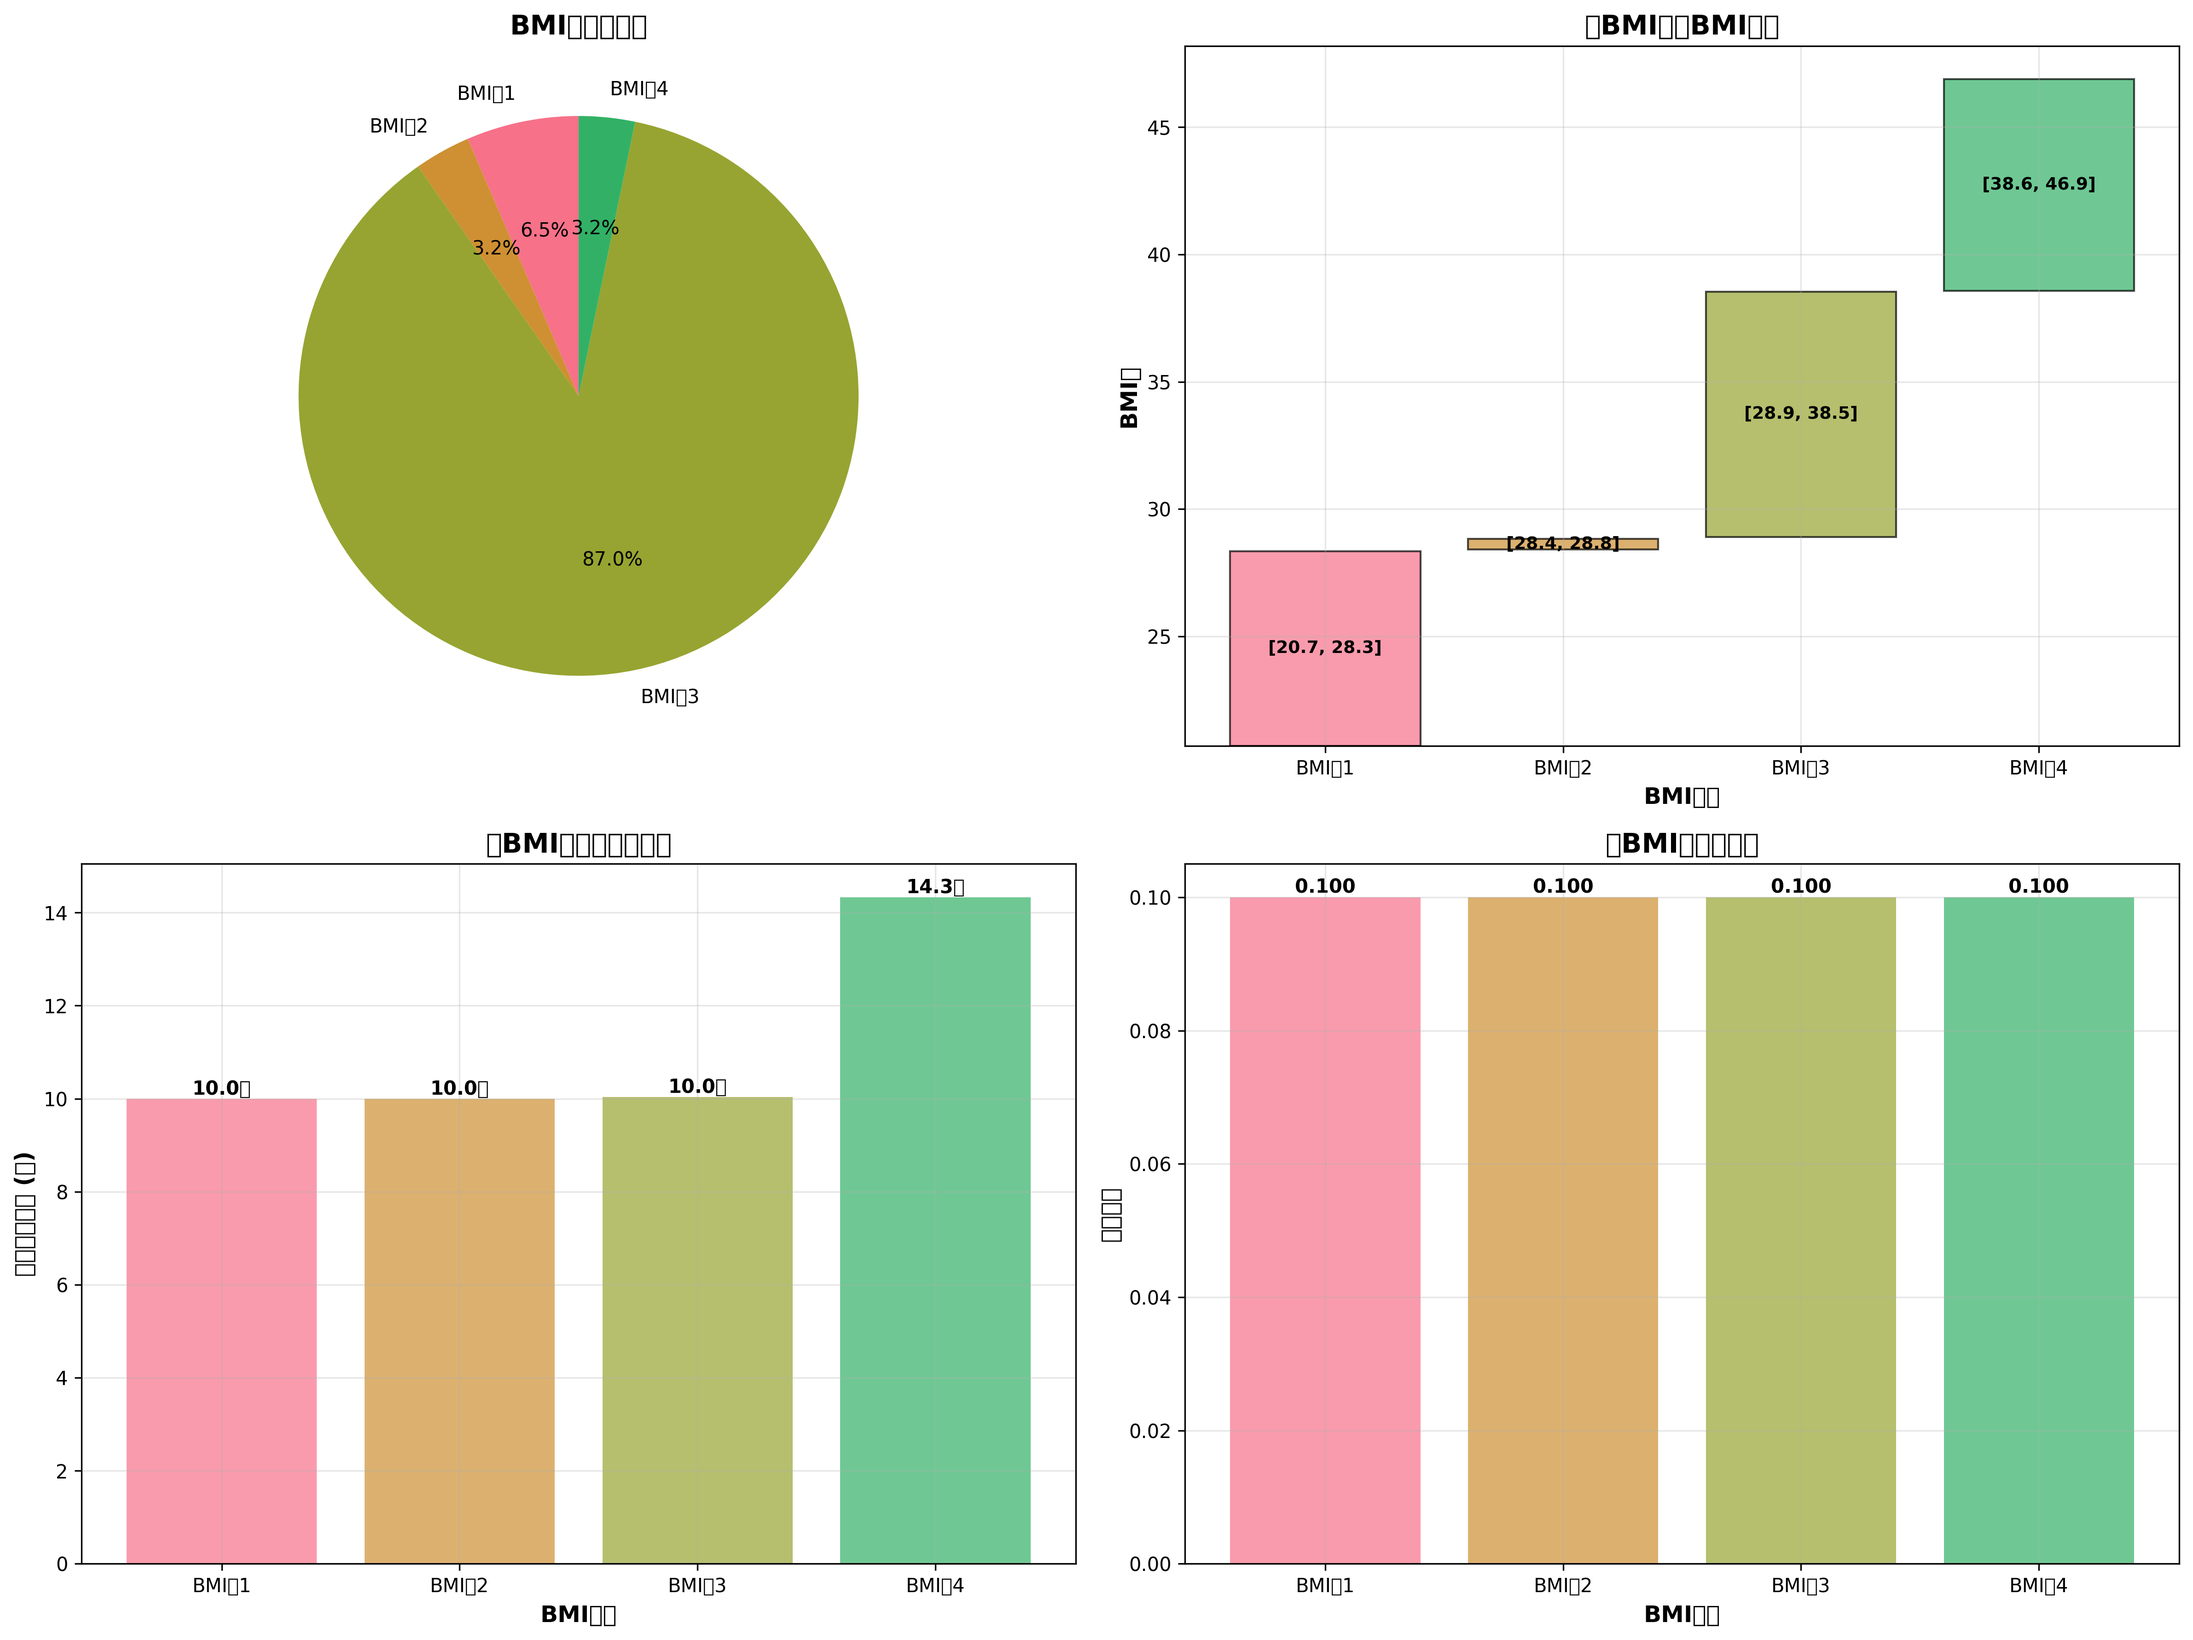
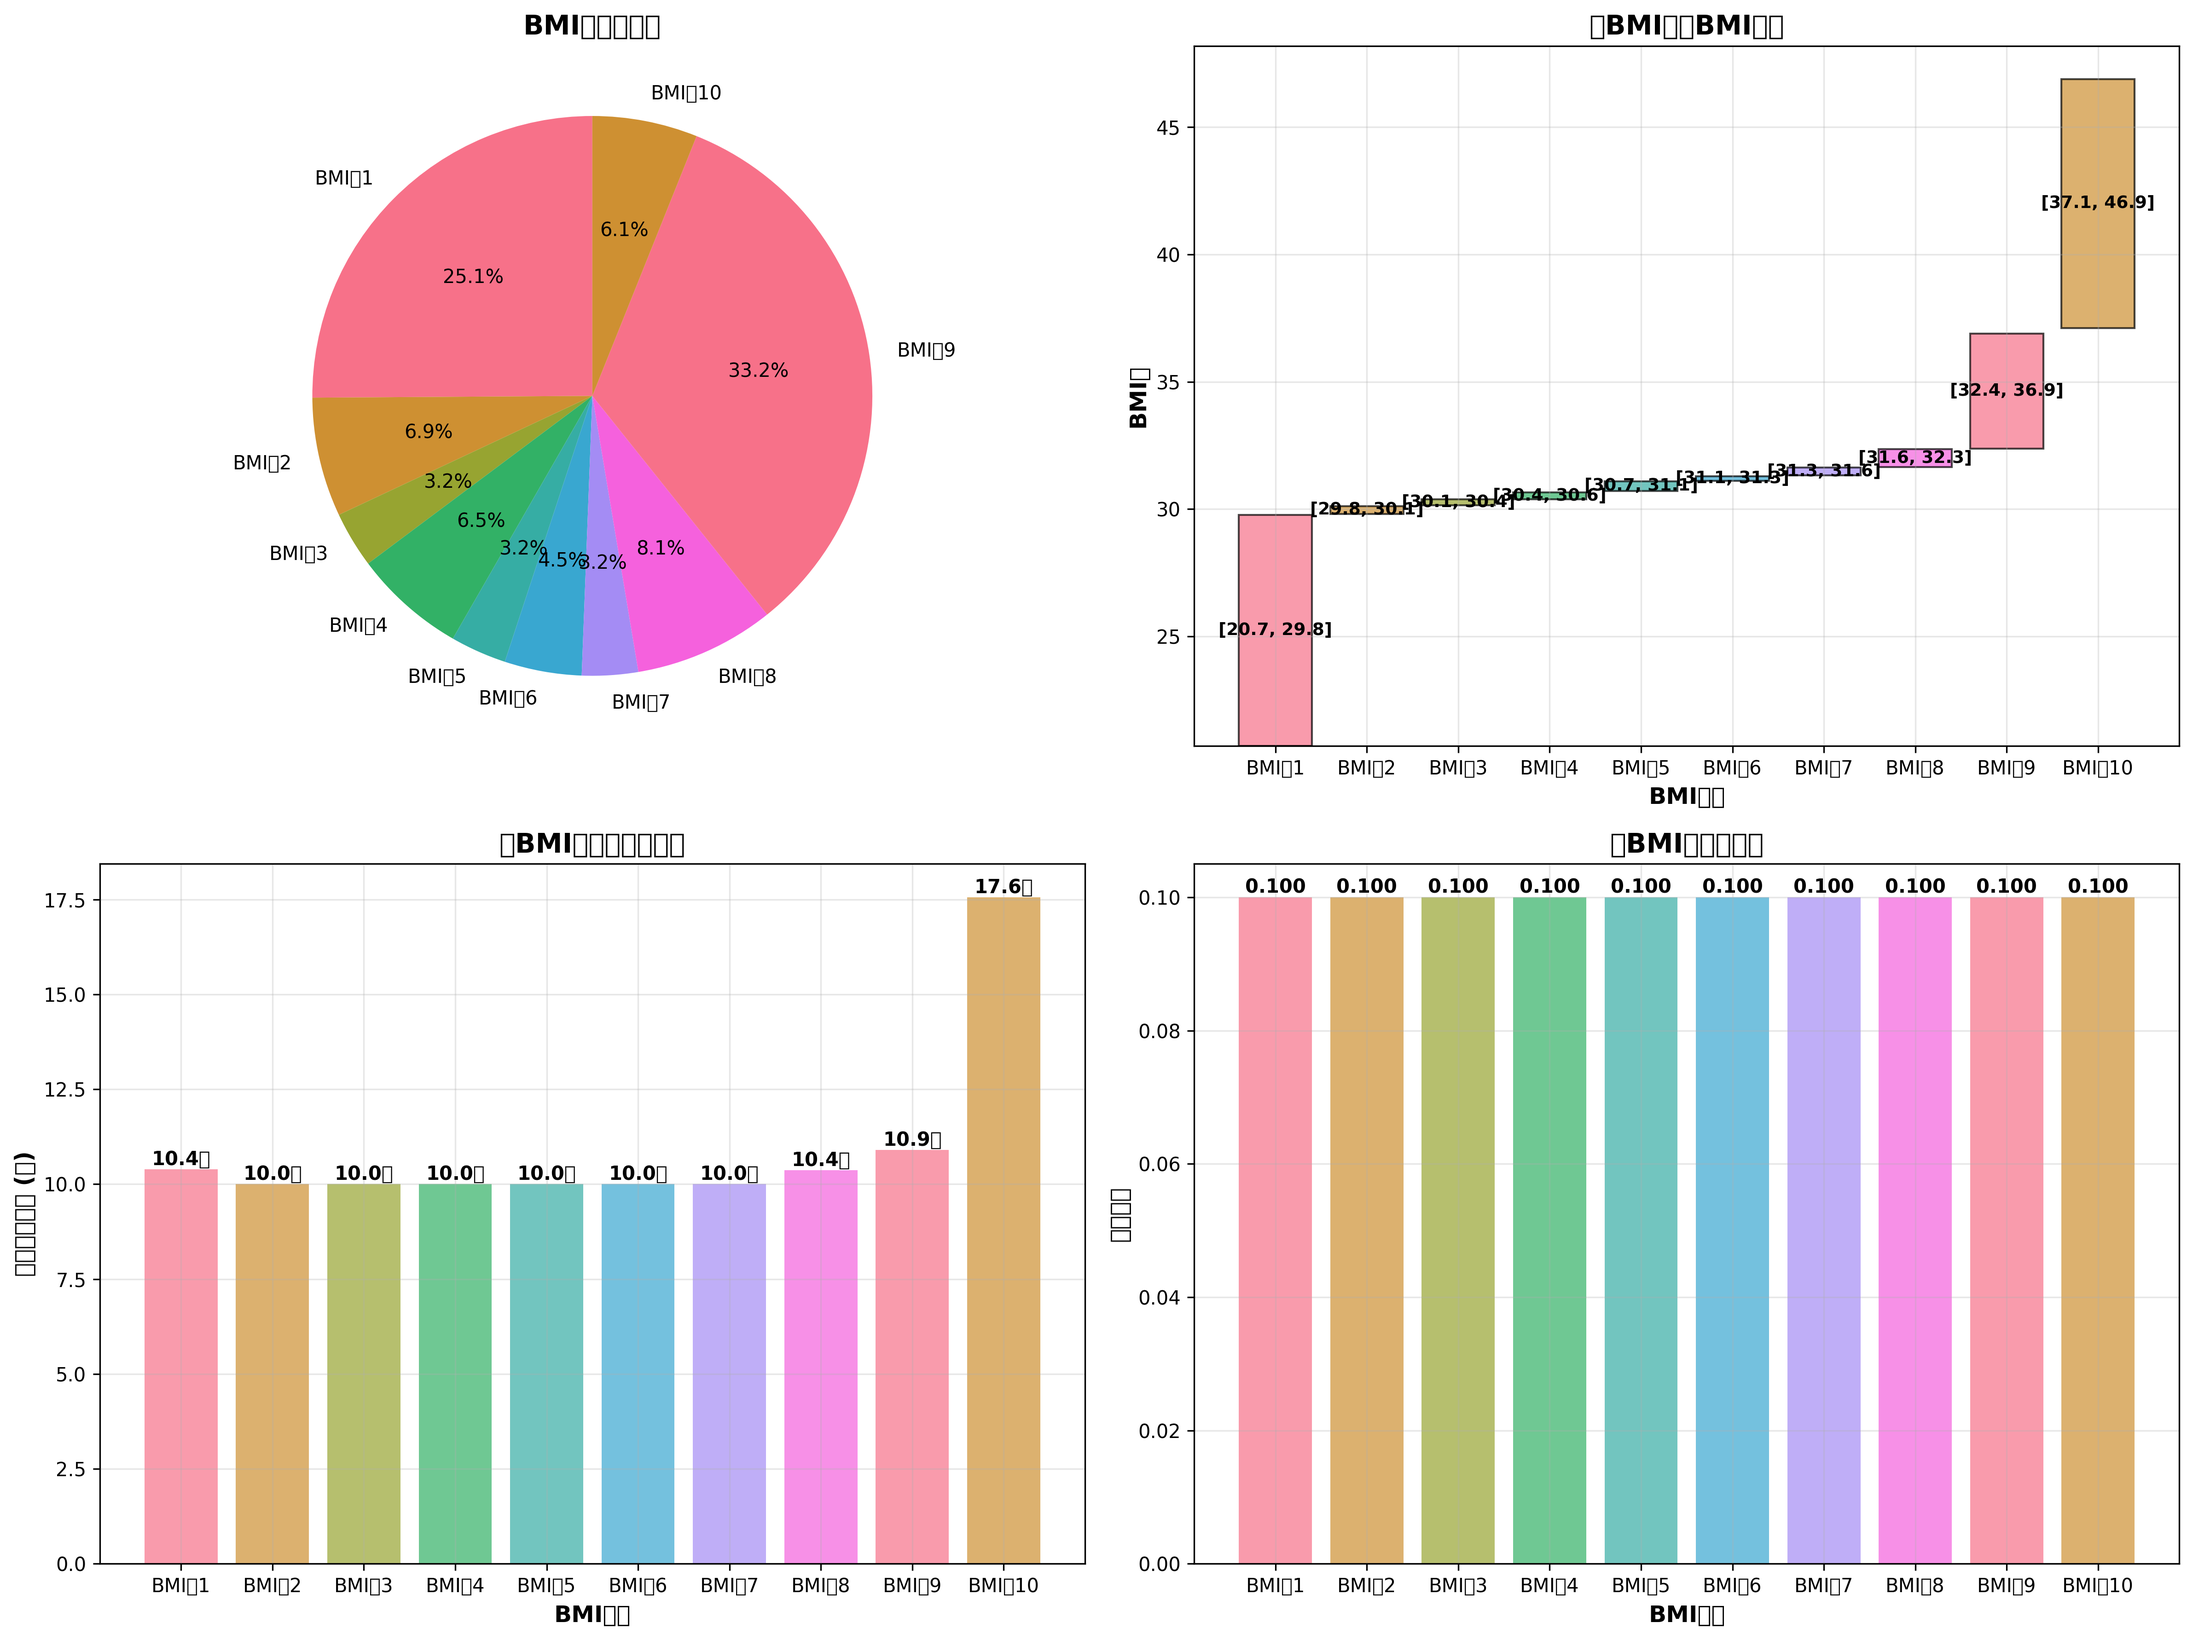
refactor(更改为随机森林时间预测模型): 更新时间预测模块，采用随机森林模型替代线性回归，增强模型性能，保存模型参数和特征重要性，新增模型文件，更新分析报告。

diff --git a/problem2_analysis/time_prediction.py b/problem2_analysis/time_prediction.py
@@ -8,7 +8,9 @@ import numpy as np
 import pandas as pd
 from scipy.optimize import fsolve, minimize_scalar
 from scipy import stats
-from sklearn.linear_model import LinearRegression
+from sklearn.ensemble import RandomForestRegressor
+from sklearn.model_selection import train_test_split
+from sklearn.metrics import mean_squared_error, r2_score
 from typing import Dict, Tuple, Optional
 import warnings
 warnings.filterwarnings('ignore')
@@ -53,61 +55,79 @@ class TimePredictionModel:
         print(f"相关性显著性检验: t={t_stat:.4f}, p={p_value:.6f}")
         print(f"样本数量: {n}")
         
-        # 2. 拟合简化线性模型：Y浓度 = a + b*孕周 + c*BMI + d*孕周*BMI
-        X = data[['gestational_days', '孕妇BMI']].copy()
-        X['gestational_days_bmi'] = X['gestational_days'] * X['孕妇BMI']  # 交互项
-        X = X.dropna()
-        
+        # 2. 拟合简化随机森林模型：Y浓度 = f(孕周, BMI) [无交互项]
+        # 保留主要特征但去掉交互项，使用保守参数避免过拟合
+        X = data[['gestational_days', '孕妇BMI']].copy().dropna()
         y = data.loc[X.index, 'Y染色体浓度']
         
-        # 使用线性回归拟合
-        model = LinearRegression()
-        model.fit(X, y)
+        # 数据划分（用于更准确的性能评估）
+        X_train, X_test, y_train, y_test = train_test_split(X, y, test_size=0.2, random_state=42)
+        
+        # 使用保守的随机森林参数避免过拟合
+        model = RandomForestRegressor(
+            n_estimators=30,       # 进一步减少树的数量
+            max_depth=4,           # 限制更小的树深度
+            min_samples_split=20,  # 增加分割所需的最小样本数
+            min_samples_leaf=10,   # 增加叶子节点最小样本数
+            max_features='sqrt',   # 使用sqrt特征数
+            random_state=42,
+            n_jobs=-1
+        )
+        model.fit(X_train, y_train)
         
         self.fitted_model = model
+        self.feature_names = X.columns.tolist()
         
-        # 保存模型参数
+        # 保存模型参数（随机森林的特征重要性）
         self.model_params = {
-            'intercept': model.intercept_,
-            'gestational_days': model.coef_[0],
-            'bmi': model.coef_[1], 
-            'gestational_days_bmi': model.coef_[2]
+            'feature_importance': dict(zip(self.feature_names, model.feature_importances_)),
+            'n_estimators': model.n_estimators,
+            'max_depth': model.max_depth,
+            'min_samples_split': model.min_samples_split,
+            'min_samples_leaf': model.min_samples_leaf
         }
         
         # 模型性能评估
-        r2 = model.score(X, y)
-        y_pred = model.predict(X)
-        rmse = np.sqrt(np.mean((y - y_pred)**2))
+        y_train_pred = model.predict(X_train)
+        y_test_pred = model.predict(X_test)
         
-        print(f"\n=== 简化模型拟合结果 ===")
-        print(f"模型公式: Y = {self.model_params['intercept']:.6f}")
-        print(f"       + {self.model_params['gestational_days']:.6f} * 孕周天数") 
-        print(f"       + {self.model_params['bmi']:.6f} * BMI")
-        print(f"       + {self.model_params['gestational_days_bmi']:.8f} * 孕周天数*BMI")
-        print(f"R² = {r2:.4f}")
-        print(f"RMSE = {rmse:.6f}")
+        r2_train = r2_score(y_train, y_train_pred)
+        r2_test = r2_score(y_test, y_test_pred)
+        rmse_train = np.sqrt(mean_squared_error(y_train, y_train_pred))
+        rmse_test = np.sqrt(mean_squared_error(y_test, y_test_pred))
+        
+        print(f"\n=== 随机森林模型拟合结果 ===")
+        print(f"模型类型: RandomForest (n_estimators={model.n_estimators}, max_depth={model.max_depth})")
+        print("特征重要性:")
+        for feature, importance in self.model_params['feature_importance'].items():
+            print(f"  - {feature}: {importance:.4f}")
+        print(f"训练集 R² = {r2_train:.4f}")
+        print(f"测试集 R² = {r2_test:.4f}")
+        print(f"训练集 RMSE = {rmse_train:.6f}")
+        print(f"测试集 RMSE = {rmse_test:.6f}")
         
         return self.model_params
     def predict_concentration(self, gestational_days: float, bmi: float, 
                             **kwargs) -> float:
         """
-        使用简化模型预测Y染色体浓度
-        新模型只需要gestational_days和bmi两个关键参数
+        使用简化随机森林模型预测Y染色体浓度
+        简化后的模型使用孕周和BMI两个主要特征（无交互项）
         
         Parameters:
         - gestational_days: 孕周天数
         - bmi: BMI值
         """
-        if not self.model_params:
+        if self.fitted_model is None:
             raise ValueError("模型未拟合！请先调用fit_model_from_data()或提供数据路径")
         
-        # 使用简化的线性模型计算浓度
-        concentration = (
-            self.model_params['intercept'] +
-            self.model_params['gestational_days'] * gestational_days +
-            self.model_params['bmi'] * bmi +
-            self.model_params['gestational_days_bmi'] * gestational_days * bmi
-        )
+        # 使用孕周和BMI两个特征（无交互项）
+        features = pd.DataFrame({
+            'gestational_days': [gestational_days],
+            '孕妇BMI': [bmi]
+        })
+        
+        # 使用随机森林模型预测浓度
+        concentration = self.fitted_model.predict(features)[0]
         
         return max(0, concentration)  # 浓度不能为负
     
@@ -116,7 +136,7 @@ class TimePredictionModel:
         求解Y染色体浓度达到4%的最早时间
         简化版本只需要BMI参数
         """
-        if not self.model_params:
+        if self.fitted_model is None:
             raise ValueError("模型未拟合！请先调用fit_model_from_data()或提供数据路径")
         
         def concentration_equation(t):

diff --git a/problem2_analysis/main_problem2.py b/problem2_analysis/main_problem2.py
@@ -539,11 +539,17 @@ class Problem2CompleteAnalysis:
         
         print("  ✓ 保存时间预测模型参数...")
         
-        # 保存时间预测模型参数
+        # 保存随机森林模型文件
+        if hasattr(self.time_predictor, 'fitted_model') and self.time_predictor.fitted_model is not None:
+            joblib.dump(self.time_predictor.fitted_model, 'problem2_results/models/time_prediction_rf_model.pkl')
+        
+        # 保存随机森林时间预测模型参数
         time_predictor_params = {
+            'model_type': 'RandomForest',
             'model_params': self.time_predictor.model_params,
             'threshold': self.time_predictor.threshold,
-            'bmi_correlation': getattr(self.time_predictor, 'bmi_correlation', None)
+            'bmi_correlation': getattr(self.time_predictor, 'bmi_correlation', None),
+            'feature_names': getattr(self.time_predictor, 'feature_names', None)
         }
         with open('problem2_results/models/time_prediction_model.json', 'w', encoding='utf-8') as f:
             json.dump(time_predictor_params, f, ensure_ascii=False, indent=2)
